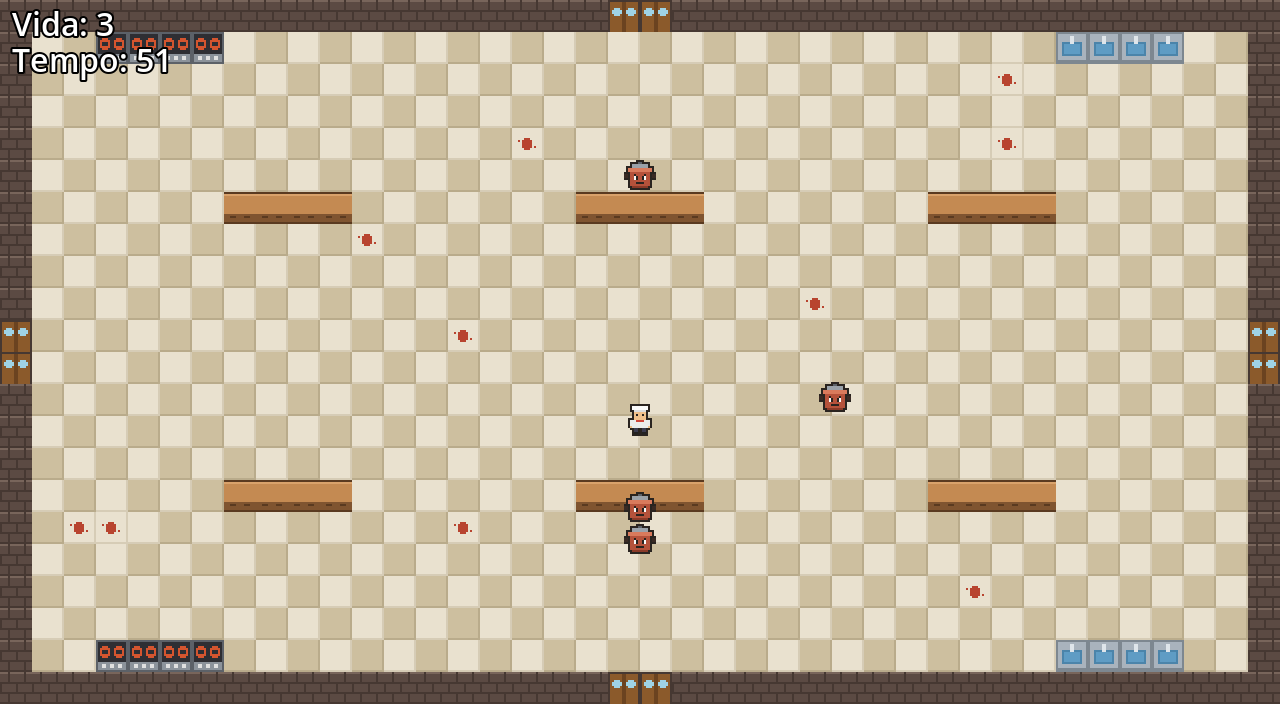
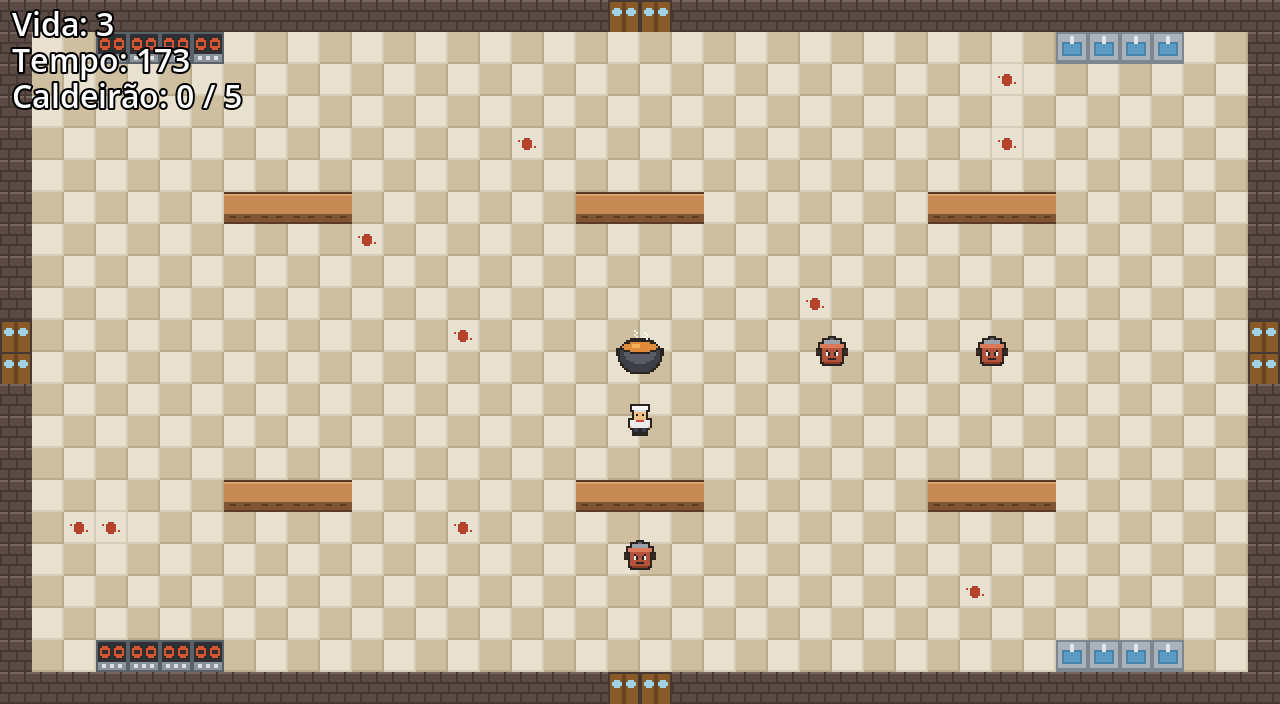
aula-09: ficha Defesa adiantada (caldeirão, ataque e 3 minutos)

diff --git a/README.md b/README.md
@@ -19,9 +19,10 @@ Matheus Nunes De Paula
 | Tecla | Ação |
 | --- | --- |
 | Setas ou W A S D | andar |
+| Espaço | atacar as panelas perto do chef |
 | Enter | jogar de novo, na tela de fim |
 
-Por enquanto (Aula 09): as panelas entram pelas portas e vêm atrás do chef. Cada toque tira 1 de vida; sem vida, você perde. Aguente 60 segundos e você vence. O caldeirão e os 3 minutos da Defesa entram na próxima etapa.
+As panelas entram pelas portas e vão atrás do caldeirão. Cada panela que encosta nele é um toque, e no 5º toque você perde. Derrube as panelas com o Espaço antes que elas cheguem. Encostar no chef também tira 1 de vida, e sem vida você perde. Aguente 3 minutos e você vence.
 
 ![Captura de tela](docs/captura.png)
 
@@ -31,10 +32,11 @@ Por enquanto (Aula 09): as panelas entram pelas portas e vêm atrás do chef. Ca
 | --- | --- |
 | `aula-08` | a cozinha vista de cima (40 × 22 peças, cabe numa tela), com parede, portas, fogões, pias e bancadas com colisão, e o chef andando nas quatro direções |
 | `aula-09` | panelas que nascem nas portas e perseguem o chef, horda que aperta com o tempo, vida com invencibilidade, placar e telas de vitória e derrota |
+| depois da `aula-09` | ficha Defesa: o caldeirão que aguenta 5 toques, as panelas indo atrás dele, o ataque do chef e os 3 minutos |
 
 ## Créditos
 
-- Arte provisória (piso, parede, portas, fogões, pias, bancadas, o chef e a panela): feita para este projeto, com auxílio de IA. Ela vai ser trocada pela arte do tema na Aula 11.
+- Arte provisória (piso, parede, portas, fogões, pias, bancadas, o chef, a panela e o caldeirão): feita para este projeto, com auxílio de IA. Ela vai ser trocada pela arte do tema na Aula 11.
 
 ## Uso de IA
 

diff --git a/DEVLOG.md b/DEVLOG.md
@@ -11,3 +11,9 @@ Como resolvi: apaguei o repositório e recomecei com a cozinha e arte própria e
 O que fiz: as panelas (arte provisória) nascendo nas quatro portas e perseguindo o chef, a horda que aperta com o tempo, a vida com 1 segundo de invencibilidade, o placar de vida e tempo e as telas de vitória (aguentar 60 s) e de derrota.
 O que travou: a fonte 48 da folha não cabia na tela de 640 × 352. E as panelas que entram pelas portas de cima e de baixo ficam presas atrás das bancadas, porque andam em linha reta até o chef.
 Como resolvi: usei fonte 28 nas telas de fim e 16 no placar. As panelas presas ficam para a Aula 10, que ensina o inimigo a contornar obstáculos.
+
+## Depois da Aula 09 -- 21/10 (ficha Defesa, adiantada)
+
+O que fiz: o caldeirão no centro (Objeto, que conta 5 toques), as panelas indo atrás dele em vez do chef, o ataque com Espaço, o relógio em 3 minutos e um placar dos toques no caldeirão.
+O que travou: como o caldeirão é uma Area2D, o chef passa por cima dele. E, como as panelas de cima e de baixo continuam presas nas bancadas, por enquanto o caldeirão só apanha pelos lados.
+Como resolvi: deixei assim por enquanto. O caminho das panelas é a Aula 10.
